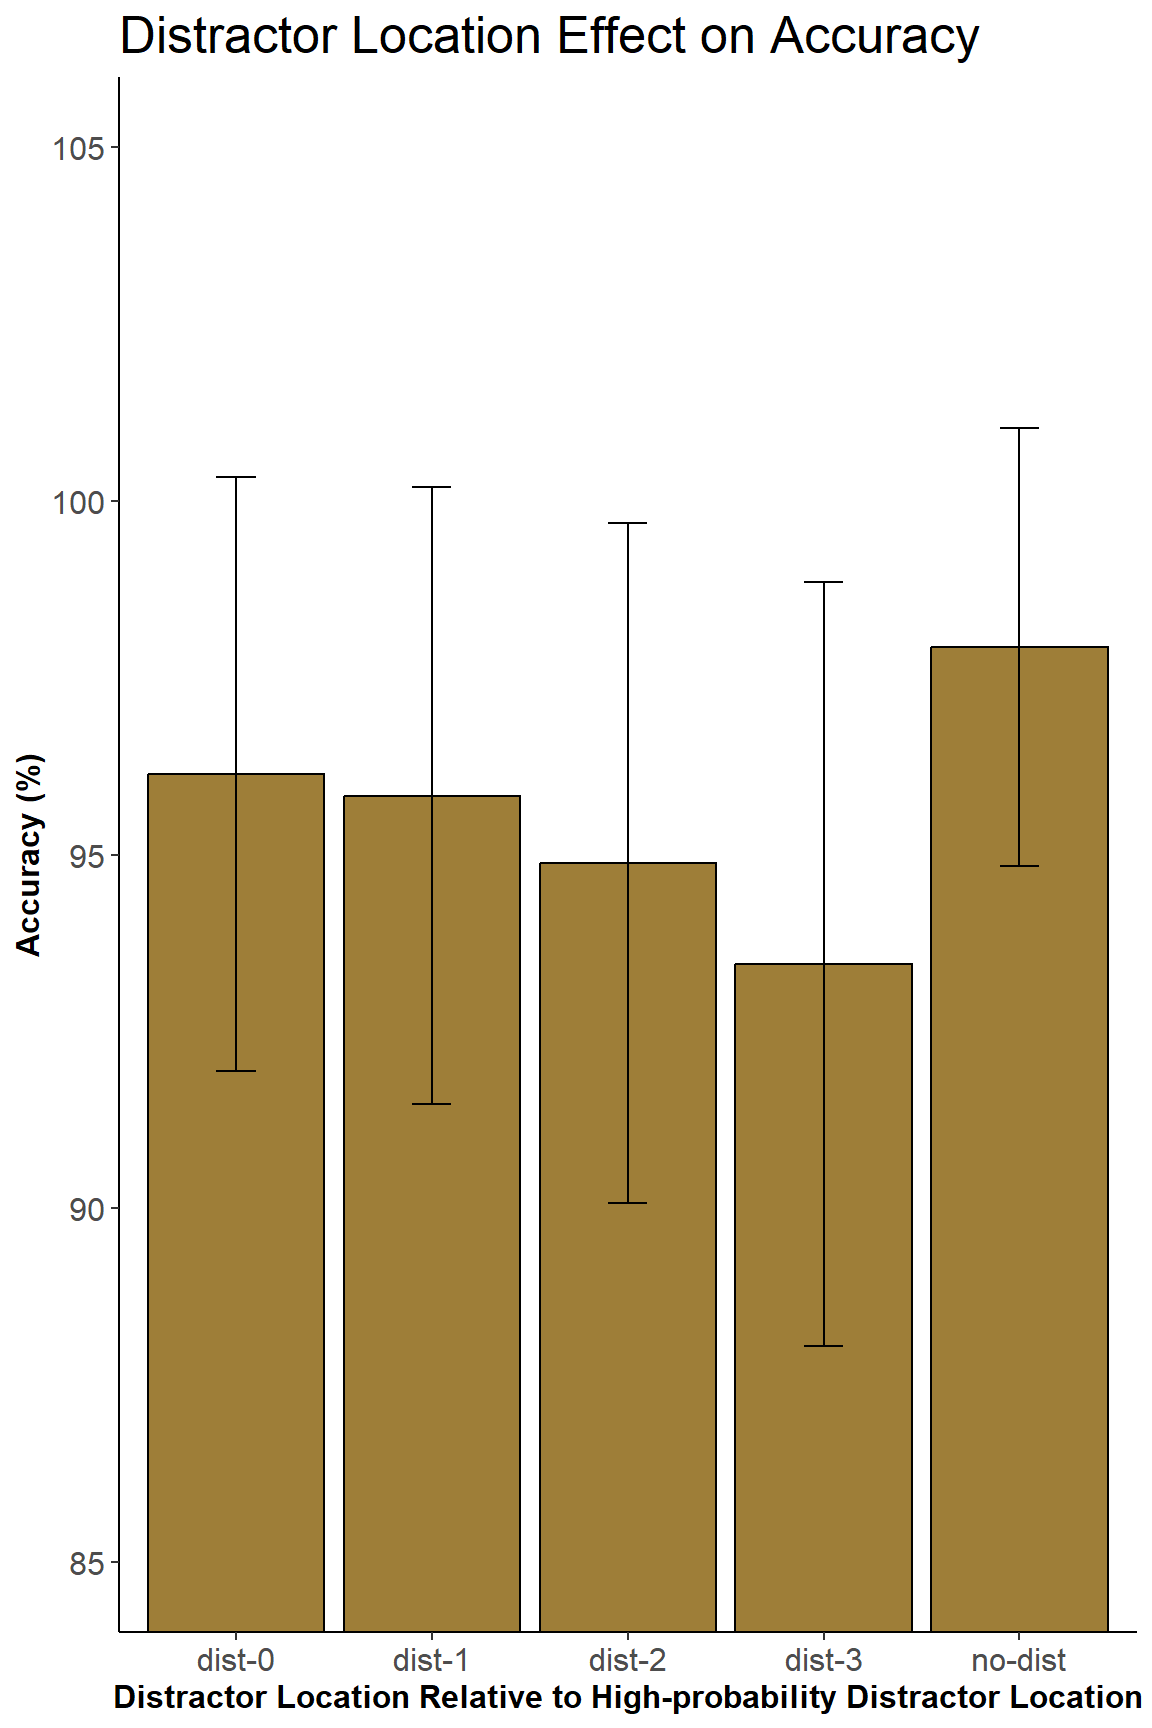
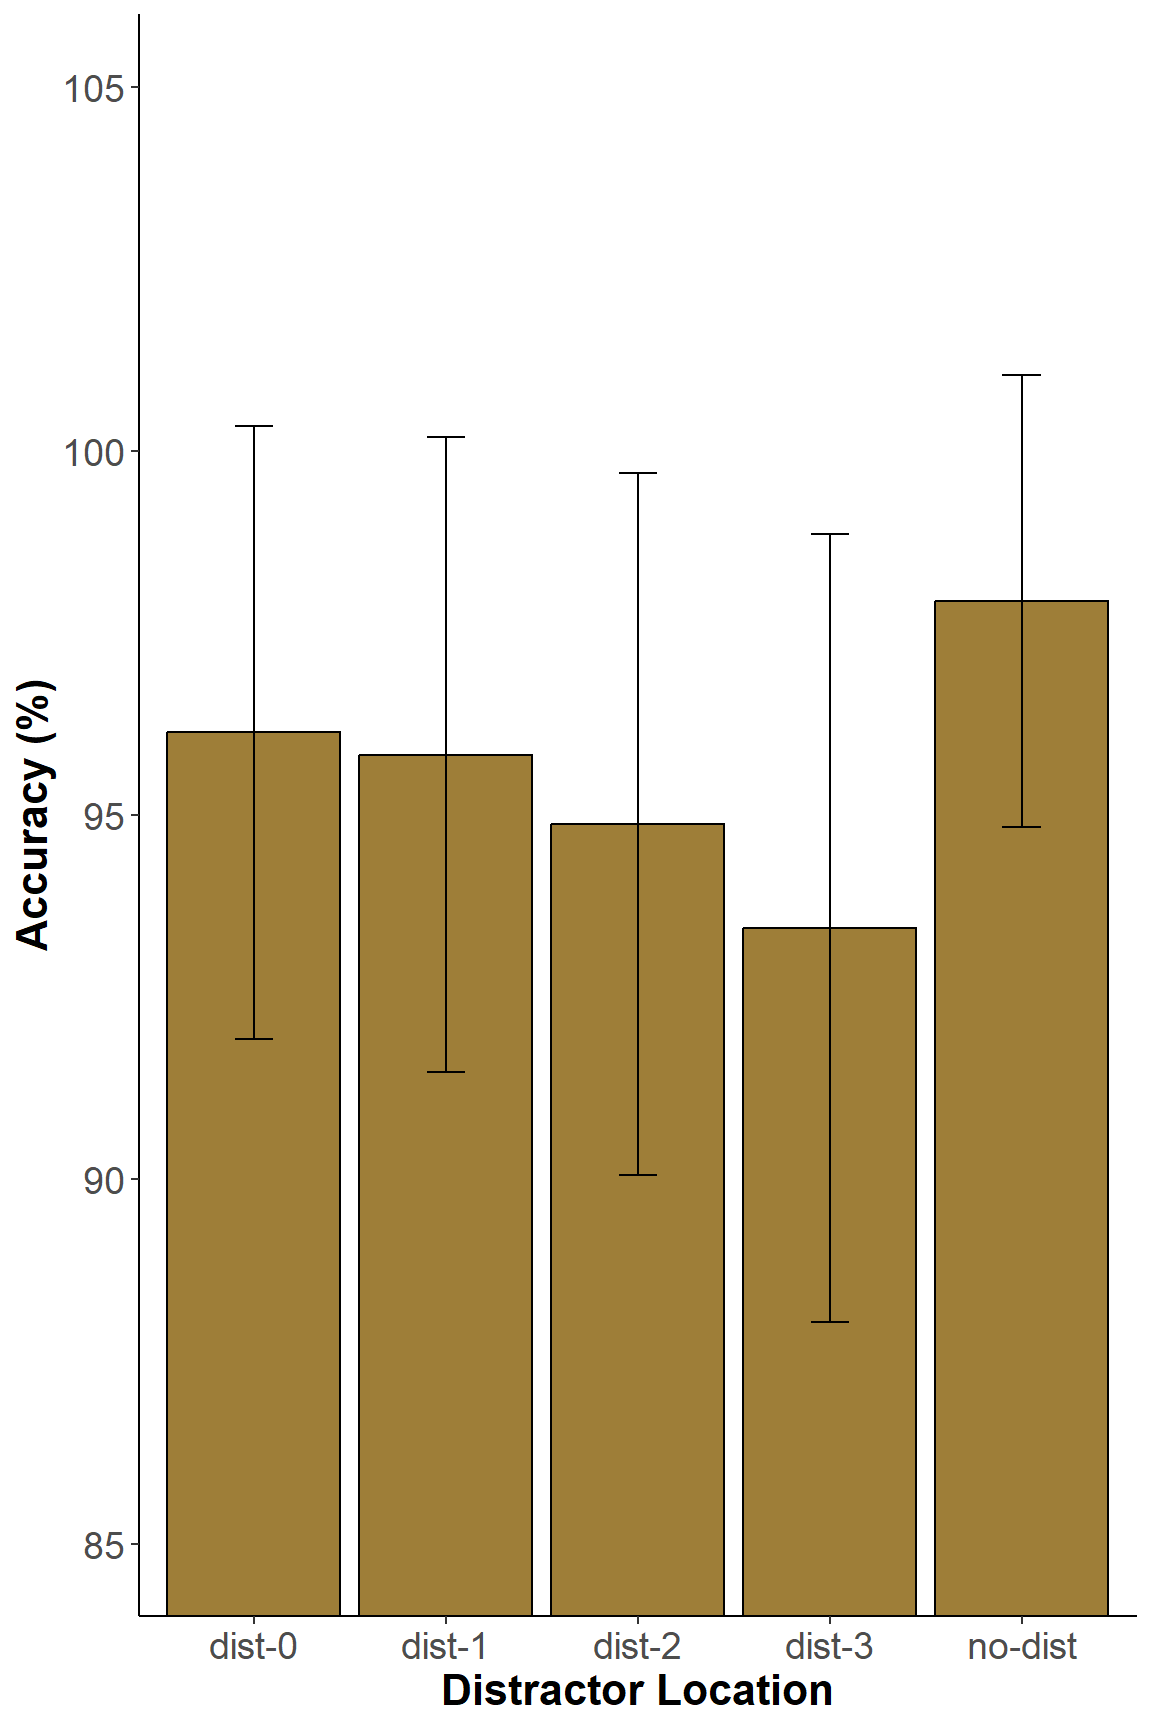
Combined graphs for poster

Changed region(s): [[0.0, 0.0, 1.0, 1.0], [0.8125, 0.25, 0.9688, 0.5], [0.375, 0.5938, 0.4062, 0.625]]

diff --git a/docs/p02.html b/docs/p02.html
@@ -306,7 +306,8 @@ library(psych)
 library(ggsignif)
 library(ggprism)
 library(patchwork)
-library(magrittr)</code></pre>
+library(magrittr)
+library(cowplot)</code></pre>
 <p>The data used is from a visual search task in which participants are
 searching for a unique item in an array of six items and press a button
 to indicate whether the item is facing right or left. On 50% of trials,
@@ -433,18 +434,17 @@ target_means</code></pre>
 location of the target relative to the high probability location of the
 distractor. I chose those particular colors based on Wake Forest’s color
 scheme.</p>
-<pre class="r"><code>ggplot(data = target_means, aes(x = relative_target, y = mean_rts)) +
+<pre class="r"><code>c&lt;-ggplot(data = target_means, aes(x = relative_target, y = mean_rts)) +
   geom_bar(stat = &quot;identity&quot;, fill=&quot;#9E7E38&quot;, color=&#39;#000000&#39;) +
   geom_errorbar(aes(ymin=lower_limit, ymax=upper_limit), width=0.2)+
   coord_cartesian(ylim = c(700,1000))+
   theme_classic()+
-  labs(x = &quot;Target Location Relative to High-probability Distractor Location&quot;, y = &quot;Response Time (ms)&quot;)+
-  labs(title = &quot;Target Location Effect on RT&quot;)+
-  theme(axis.text=element_text(size=12),
-    axis.title=element_text(size=14,face=&quot;bold&quot;),
-    title = element_text(size = 20))+
+  labs(x = &quot;Target Location&quot;, y = &quot;Response Time (ms)&quot;)+
+  labs(title = &quot;Singleton Distractor Absent&quot;)+
+  theme(axis.text=element_text(size=14),
+    axis.title=element_text(size=16,face=&quot;bold&quot;),
+    title = element_text(size = 24))+
   scale_x_discrete(labels= c(&quot;high_prob&quot;=&quot;dist-0&quot;,&quot;lp_1&quot;=&quot;dist-1&quot;, &quot;lp_2&quot;=&quot;dist-2&quot;, &quot;lp_3&quot;=&quot;dist-3&quot;))</code></pre>
-<p><img src="p02_files/figure-html/-%20graph%201%20-%20distractor%20location%20effect%20on%20rt-1.png" width="672" /></p>
 <pre class="r"><code>df2 &lt;- subset(trimmed,block_num!=&#39;7&#39; &amp; relative_hp_dist==&quot;no_dist&quot;)
 df2 &lt;- subset(df2,block_num!=&#39;8&#39;)
 df2 &lt;- subset(df2,block_num!=&#39;5&#39;)
@@ -737,25 +737,24 @@ pilot_targacc &lt;- pilot %&gt;%
   geom_errorbar(aes(ymin=lower_limit, ymax=upper_limit), width=0.2)+
   coord_cartesian(ylim = c(85,105))+
   theme_classic()+
-  labs(x = &quot;Distractor Location Relative to High-probability Distractor Location&quot;, y = &quot;Accuracy (%)&quot;)+
-  labs(title = &quot;Distractor Location Effect on Accuracy&quot;)+
-  theme(axis.text=element_text(size=12),
-        axis.title=element_text(size=12,face=&quot;bold&quot;),
+  labs(x = &quot;Distractor Location&quot;, y = &quot;Accuracy (%)&quot;)+
+  #labs(title = &quot;Distractor Location Effect on Accuracy&quot;)+
+  theme(axis.text=element_text(size=14),
+        axis.title=element_text(size=16,face=&quot;bold&quot;),
         title = element_text(size = 16))+
   scale_x_discrete(labels= c(&quot;no_dist&quot;=&quot;no-dist&quot;,&quot;dist_0&quot;=&quot;dist-0&quot;,&quot;dist_1&quot;=&quot;dist-1&quot;,&quot;dist_2&quot;=&quot;dist-2&quot;,&quot;dist_3&quot;=&quot;dist-3&quot;))</code></pre>
 <p><img src="p02_files/figure-html/-%20graph%20distractor%20location%20effects%20on%20accuracy-1.png" width="576" /></p>
-<pre class="r"><code>ggplot(data = pilot_targacc, aes(x = relative_target, y = accuracy)) +
+<pre class="r"><code>d&lt;-ggplot(data = pilot_targacc, aes(x = relative_target, y = accuracy)) +
   geom_bar(stat = &quot;identity&quot;, fill=&quot;#9E7E38&quot;, color=&#39;#000000&#39;) +
   geom_errorbar(aes(ymin=lower_limit, ymax=upper_limit), width=0.2)+
   coord_cartesian(ylim = c(85,105))+
   theme_classic()+
-  labs(x = &quot;Target Location Relative to High-probability Distractor Location&quot;, y = &quot;Accuracy (%)&quot;)+
-  labs(title = &quot;Target Location Effect on Accuracy&quot;)+
-  theme(axis.text=element_text(size=12),
-        axis.title=element_text(size=12,face=&quot;bold&quot;),
+  labs(x = &quot;Target Location&quot;, y = &quot;Accuracy (%)&quot;)+
+  #labs(title = &quot;Target Location Effect on Accuracy&quot;)+
+  theme(axis.text=element_text(size=14),
+        axis.title=element_text(size=16,face=&quot;bold&quot;),
         title = element_text(size = 16))+
   scale_x_discrete(labels= c(&quot;high_prob&quot;=&quot;dist-0&quot;,&quot;lp_1&quot;=&quot;dist-1&quot;,&quot;lp_2&quot;=&quot;dist-2&quot;,&quot;lp_3&quot;=&quot;dist-3&quot;))</code></pre>
-<p><img src="p02_files/figure-html/-%20graph%20target%20location%20effects%20on%20accuracy-1.png" width="576" /></p>
 <pre class="r"><code>pilot_dist &lt;- pilot %&gt;%
   group_by(ID, relative_hp_dist) %&gt;%
   summarize(accuracy = mean(acc)
@@ -888,6 +887,9 @@ df3 &lt;- subset(df3,block_num!=&#39;6&#39;)</code></pre>
 ## Signif. codes:  0 &#39;***&#39; 0.001 &#39;**&#39; 0.01 &#39;*&#39; 0.05 &#39;+&#39; 0.1 &#39; &#39; 1
 ## 
 ## Sphericity correction method: GG</code></pre>
+<p>Created the below plot for NC Cognition Poster.</p>
+<pre class="r"><code>plot_grid(c,d,labels = c(&#39;A&#39;,&#39;B&#39;), label_size=16, rel_widths = c(2,1))</code></pre>
+<p><img src="p02_files/figure-html/join-2-figures-1.png" width="1536" /></p>
 </div>
 
 

diff --git a/docs/p01.html b/docs/p01.html
@@ -306,7 +306,8 @@ library(emmeans)
 library(psych)
 library(ggprism)
 library(patchwork)
-library(magrittr)</code></pre>
+library(magrittr)
+library(cowplot)</code></pre>
 <p>The data used is from a visual search task in which participants are
 searching for a unique item in an array of six items and press a button
 to indicate whether the item is facing right or left. On 50% of trials,
@@ -385,20 +386,19 @@ sum_stats</code></pre>
 <p>This figure displays the mean response times depending on the
 location of the distractor relative to the high probability location. I
 chose those particular colors based on Wake Forest’s color scheme.</p>
-<pre class="r"><code>ggplot(data = sum_stats, aes(x = relative_hp_dist, y = mean_rts)) +
+<pre class="r"><code>a&lt;-ggplot(data = sum_stats, aes(x = relative_hp_dist, y = mean_rts)) +
   #geom_point()+
   geom_bar(stat = &quot;identity&quot;, fill=&quot;#9E7E38&quot;, color=&#39;#000000&#39;) +
   geom_errorbar(aes(ymin=lower_limit, ymax=upper_limit), width=0.2)+
   coord_cartesian(ylim = c(700,1050))+
   theme_classic()+
   labs(x = &quot;Distractor Location&quot;, y = &quot;Response Time (ms)&quot;)+
-  labs(title = &quot;Distractor Location Effect on RT&quot;)+
+  labs(title = &quot;Singleton Distractor Present&quot;)+
   #labs(caption = &quot;An ANOVA test shows a difference in RT depending on distractor location, F(3.28,65.57)=33.3, p&lt;.001.&quot;)+
-  theme(axis.text=element_text(size=12),
-        axis.title=element_text(size=14,face=&quot;bold&quot;),
+  theme(axis.text=element_text(size=14),
+        axis.title=element_text(size=16,face=&quot;bold&quot;),
         title = element_text(size = 20))+
   scale_x_discrete(labels= c(&quot;no_dist&quot;=&quot;no-dist&quot;,&quot;dist_0&quot;=&quot;dist-0&quot;,&quot;dist_1&quot;=&quot;dist-1&quot;,&quot;dist_2&quot;=&quot;dist-2&quot;,&quot;dist_3&quot;=&quot;dist-3&quot;))</code></pre>
-<p><img src="p01_files/figure-html/-%20graph%201%20-%20distractor%20location%20effect%20on%20rt-1.png" width="672" /></p>
 <p>Create a new data frame with the average RT for each relative
 distractor location per participant, so we can do a repeated measures
 ANOVA.</p>
@@ -688,6 +688,30 @@ model3</code></pre>
 ## Signif. codes:  0 &#39;***&#39; 0.001 &#39;**&#39; 0.01 &#39;*&#39; 0.05 &#39;+&#39; 0.1 &#39; &#39; 1
 ## 
 ## Sphericity correction method: GG</code></pre>
+<p>Combine graphs of rt and accuracy for NC Cog Poster.</p>
+<pre class="r"><code>pilot_distacc &lt;- pilot %&gt;%
+  group_by(relative_hp_dist) %&gt;%
+  summarize(accuracy = mean(acc),
+            sd_rt=sd(acc),
+            n_rt=21,
+            se=sd_rt/sqrt(n_rt),
+            upper_limit=accuracy+se,
+            lower_limit=accuracy-se
+            )
+
+b&lt;-ggplot(data = pilot_distacc, aes(x = relative_hp_dist, y = accuracy)) +
+  geom_bar(stat = &quot;identity&quot;, fill=&quot;#9E7E38&quot;, color=&#39;#000000&#39;) +
+  geom_errorbar(aes(ymin=lower_limit, ymax=upper_limit), width=0.2)+
+  coord_cartesian(ylim = c(85,105))+
+  theme_classic()+
+  labs(x = &quot;Distractor Location&quot;, y = &quot;Accuracy (%)&quot;)+
+  #labs(title = &quot;Distractor Location Effect on Accuracy&quot;)+
+  theme(axis.text=element_text(size=14),
+        axis.title=element_text(size=16,face=&quot;bold&quot;),
+        title = element_text(size = 16))+
+  scale_x_discrete(labels= c(&quot;no_dist&quot;=&quot;no-dist&quot;,&quot;dist_0&quot;=&quot;dist-0&quot;,&quot;dist_1&quot;=&quot;dist-1&quot;,&quot;dist_2&quot;=&quot;dist-2&quot;,&quot;dist_3&quot;=&quot;dist-3&quot;))</code></pre>
+<pre class="r"><code>plot_grid(a,b,labels = c(&#39;A&#39;,&#39;B&#39;), label_size=16, rel_widths = c(2,1))</code></pre>
+<p><img src="p01_files/figure-html/dist_2-plots-1.png" width="1536" /></p>
 </div>
 <div id="examine-block-by-block-learning-of-distractor-location"
 class="section level3">
